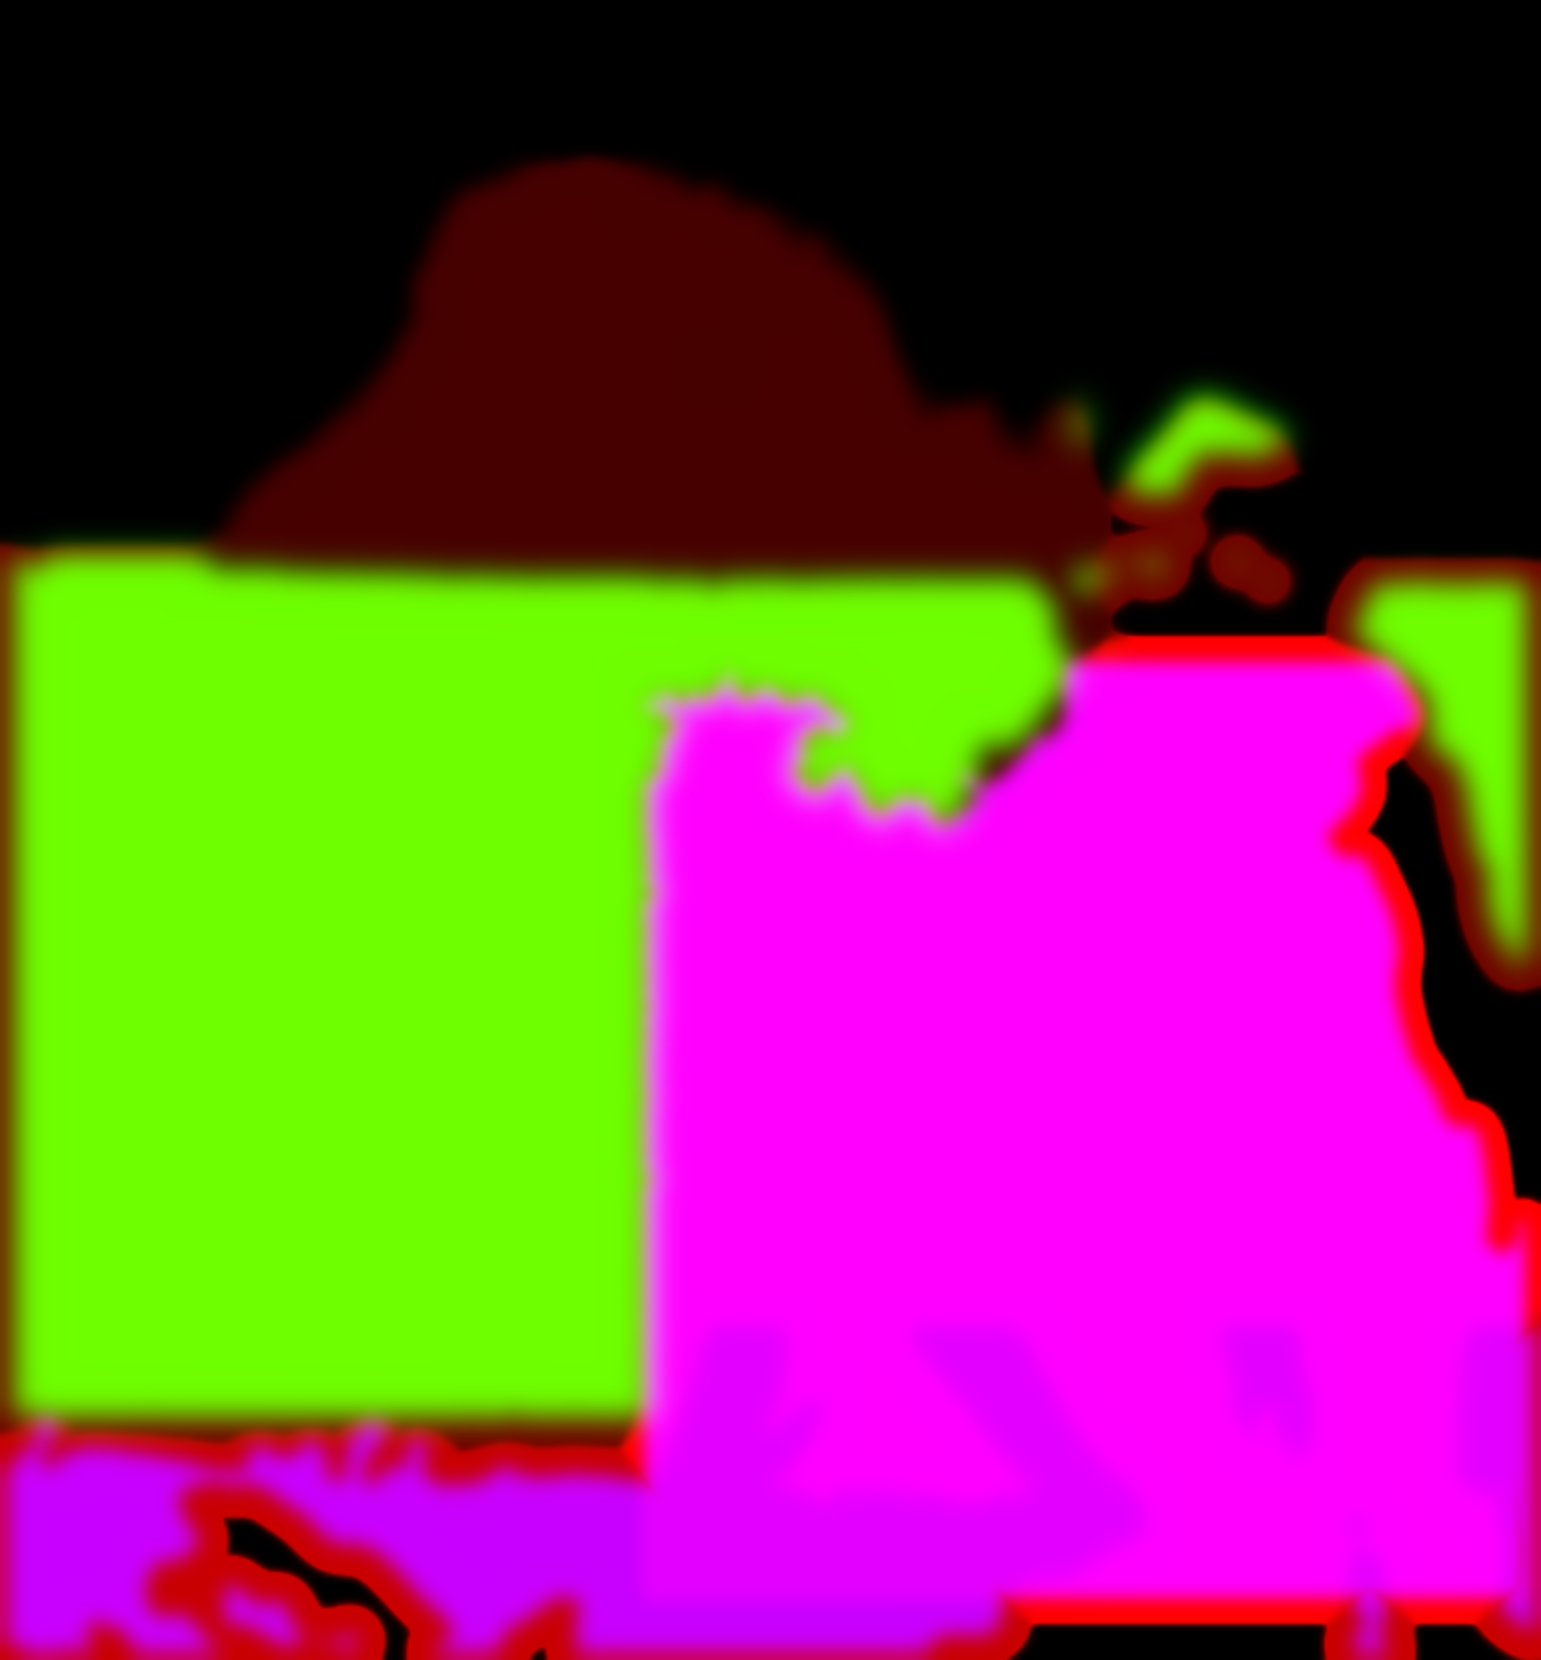
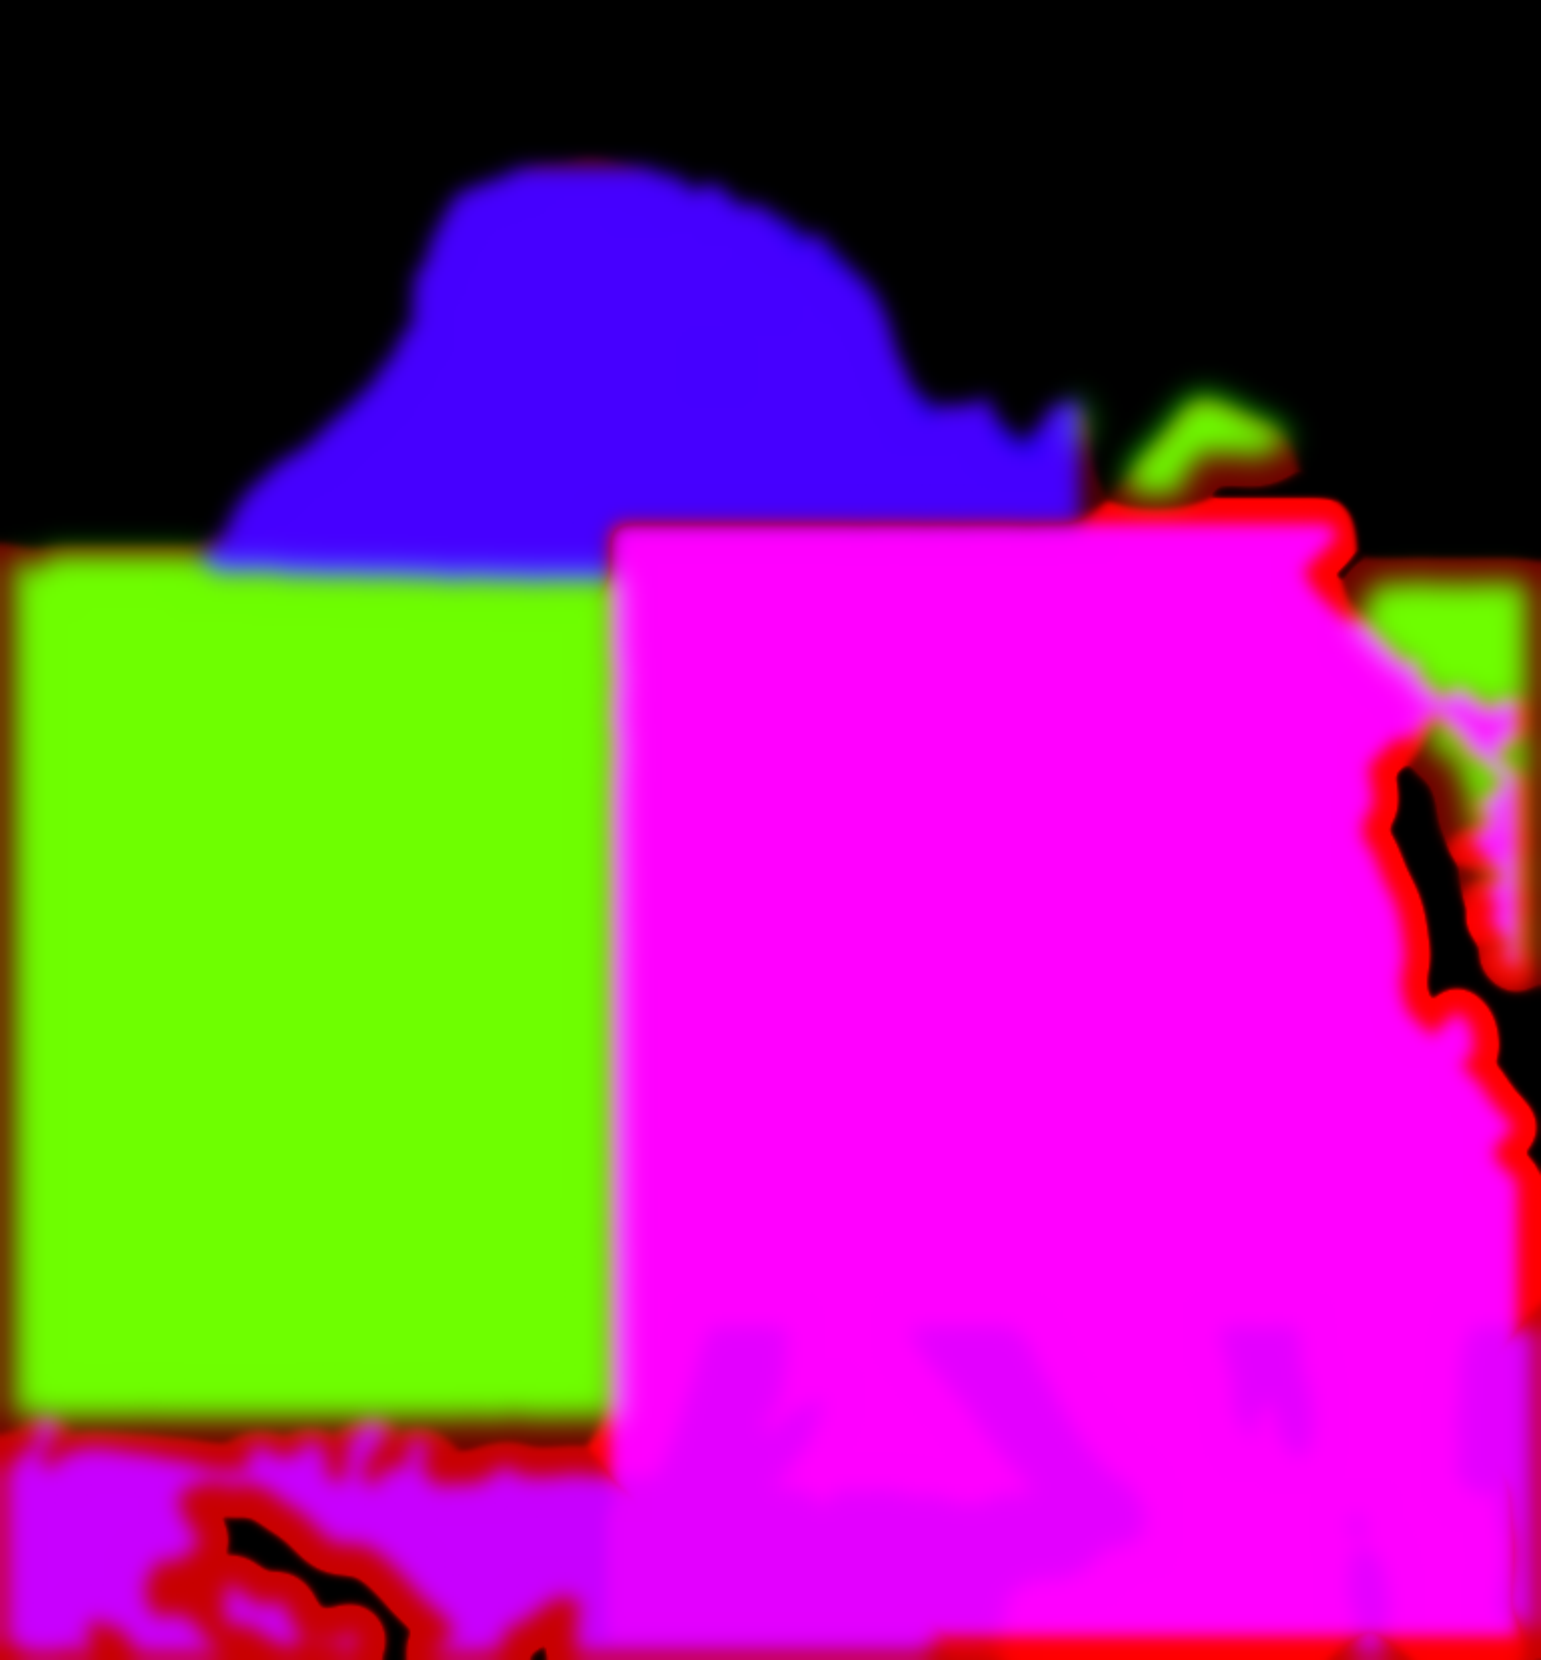
preview: lock mountain in static_fg, widen lady mask, ease parallax
User feedback:
- Mountain was wobbling with cursor parallax. It should be static
  alongside the lady + foreground rocks.
- The lady silhouette was partially included, leaving edges (hat,
  outstretched leg) moving with parallax. Widen the lady mask.
- Cursor parallax was too prominent. Halve the amounts.

Mask script (scripts/gen_home_masks.py)
- static_fg now = lady ∪ fg_rocks ∪ rock_f. The mountain feather
  is added to the static-foreground channel so the shader treats
  the rock as locked.
- Lady detector widened: x > 0.40 (was 0.42), y starting at 0.32
  (was 0.40), luminance threshold 0.42 (was 0.34), dilation +
  closing iterations doubled. Captures hat + body + extended leg.

Shader (HomeImmersiveCanvas)
- Parallax X amount 0.045 → 0.018 (~60% gentler at the horizon).
- Parallax Y amount 0.015 → 0.008 (~50% gentler).

User can also paint the mask manually — it's a real PNG at
public/sea-society/site/home-hero-depth.png with R/G/B encoding
depth/water/static-foreground. Hand-painted overrides bypass the
script entirely.

Changed region(s): [[0.1246, 0.0922, 1.0, 1.0]]

diff --git a/components/site/HomeImmersiveCanvas.tsx b/components/site/HomeImmersiveCanvas.tsx
@@ -181,8 +181,8 @@ const FRAGMENT = /* glsl */ `
     vec2 cursorOffset = uCursor - vec2(0.5);             // -0.5..0.5
     float horizonWeight = 1.0 - vuv.y;                   // 1 at viewport top, 0 at bottom
     vec2 parallax = vec2(
-      cursorOffset.x * horizonWeight * 0.045,
-      cursorOffset.y * 0.015
+      cursorOffset.x * horizonWeight * 0.018,
+      cursorOffset.y * 0.008
     ) * (1.0 - staticMask);
 
     vec2 displacement = vec2(wave) * 0.0027 * water;

diff --git a/scripts/gen_home_masks.py b/scripts/gen_home_masks.py
@@ -88,14 +88,17 @@ fg_rocks = ndimage.binary_fill_holes(fg_rocks)
 
 # ----------------------------------------------------------------------
 # 5) Lady silhouette. Right side, dark, mid-lower band.
+#    Wider band so the new hero photo's whole figure (hat + arm + leg)
+#    is included — the old thresholds left edges of the silhouette
+#    out of the mask, which then moved with parallax.
 # ----------------------------------------------------------------------
 lady = (
-    (xx > 0.42) &
-    (yy > 0.40) & (yy < 0.96) &
-    (lum < 0.34)
+    (xx > 0.40) &
+    (yy > 0.32) & (yy < 0.99) &
+    (lum < 0.42)
 )
-lady = ndimage.binary_dilation(lady, iterations=2)
-lady = ndimage.binary_closing(lady, iterations=8)
+lady = ndimage.binary_dilation(lady, iterations=4)
+lady = ndimage.binary_closing(lady, iterations=12)
 lady = ndimage.binary_fill_holes(lady)
 labels, n = ndimage.label(lady)
 if n > 0:
@@ -141,7 +144,17 @@ depth = np.clip(depth, 0, 255).astype(np.uint8)
 # Water mask uses a *boosted* sea feather so the shader sees a near-
 # binary gate and never lands in a soft mid-grey "blind spot".
 water = np.clip(np.power(sea_f, 0.6) * 255.0, 0, 255).astype(np.uint8)
-static_fg = np.clip(np.maximum(lady_f, fg_f) * 255.0, 0, 255).astype(np.uint8)
+# Static = everything that must NOT move with cursor parallax:
+#   - the mountain (Es Vedra rock — user feedback: it was wobbling
+#     with the parallax and shouldn't)
+#   - lady silhouette
+#   - foreground rocks she sits on
+# Sky / horizon stays OUT of static — it *should* swing with cursor X
+# so the parallax has somewhere to read against.
+static_fg = np.clip(
+    np.maximum(np.maximum(lady_f, fg_f), rock_f) * 255.0,
+    0, 255,
+).astype(np.uint8)
 
 packed = np.stack([depth, water, static_fg], axis=-1)
 out = Image.fromarray(packed, mode="RGB")
